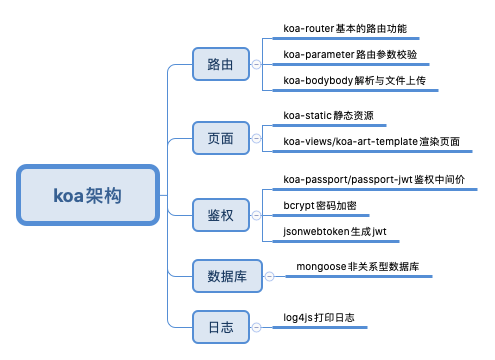
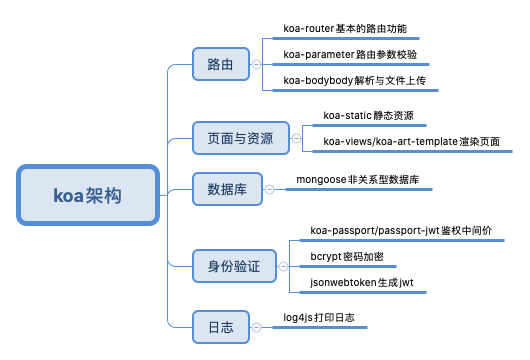
Step 5.日志

diff --git a/server/index.js b/server/index.js
@@ -24,6 +24,17 @@ render(app, {
 
 require('./dbconnect')
 
+const log4js = require("log4js");
+const logger = log4js.getLogger();
+logger.level = "info";
+
+app.use(async (ctx, next) => {
+  const start = new Date()
+  await next()
+  const ms = new Date() - start
+  logger.info(`${ctx.method} ${ctx.url} - ${ms}ms`)
+})
+
 const passport = require('koa-passport')
 require('./auth')(passport)
 app.use(passport.initialize())

diff --git a/README.md b/README.md
@@ -1,11 +1,13 @@
-# Koa-基础框架构建
+# Koa系列-基础功能实现
 > Koa 是一个新的 web 框架，由 Express 幕后的原班人马打造， 致力于成为 web 应用和 API 开发领域中的一个更小、更富有表现力、更健壮的基石。
 
 Koa与Express风格类似，不同在于默认异步解决方案和采用洋葱圈模型的中间件。
 
-Koa没有绑定任何中间件，简单的同时也缺失了很多Web程序基础的功能，现在我们使用Koa来实现一般Web程序中基础的功能。
+Koa没有绑定任何中间件，简单的同时也缺失了很多Web程序基础的功能，现在我们实现这些基础的功能：
+![koa架构.png](https://imgkr2.cn-bj.ufileos.com/2c1e897d-53f5-44e4-937e-6c254a354c57.png?UCloudPublicKey=TOKEN_8d8b72be-579a-4e83-bfd0-5f6ce1546f13&Signature=VI3rvEwVDBHgpsddDr6RiJtod%252Fk%253D&Expires=1601890371)
 
-## 实现路由功能
+
+## 路由
 
 实现路由功能我们使用到三个中间件，分别是`koa-router`、`koa-body`、`koa-parameter`：
 1. 其中`koa-router`来实现最基础的路由功能，将不同的url分发到相应的处理函数中；
@@ -63,7 +65,15 @@ api.post('/upload', ctx => {
 
 module.exports = api.routes()
 ```
-执行命令`node ./server/index.js`，运行程序，使用postman访问路由，访问`/api/test`时，如果没有参数name，状态码为422，提示Validation Failed，而我们带上参数name，返回结果为我们请求的参数；使用postman模拟文件上传，调用`/api/upload`接口，上传成功显示upload success，我们项目中的dist文件夹也多出了上传的文件（dist文件夹需要先创建，不然程序会报错）。
+执行命令`node ./server/index.js`，运行程序，使用postman访问路由，访问`/api/test`时，如果没有参数name，状态码为422，提示Validation Failed
+![20201001155137.jpg](https://imgkr2.cn-bj.ufileos.com/b647ac35-f6b1-41c4-a031-a9b0f44b5542.png?UCloudPublicKey=TOKEN_8d8b72be-579a-4e83-bfd0-5f6ce1546f13&Signature=dobzNRkQOIVMao6jW3%252FCbpjTTdE%253D&Expires=1601890190)
+
+而我们带上参数name，返回结果为我们请求的参数
+![20201001155221.jpg](https://imgkr2.cn-bj.ufileos.com/422c624a-0a93-4386-9b4c-ebbc6f03ab7c.png?UCloudPublicKey=TOKEN_8d8b72be-579a-4e83-bfd0-5f6ce1546f13&Signature=6B5TKYgFZq784KB7aW2YaS9cQr4%253D&Expires=1601890224)
+
+使用postman模拟文件上传，调用`/api/upload`接口，上传成功显示upload success，我们项目中的dist文件夹也多出了上传的文件（dist文件夹需要先创建，不然程序会报错）。
+![20201001155246.jpg](https://imgkr2.cn-bj.ufileos.com/b57992f0-1951-4595-a5f9-31c86d424099.png?UCloudPublicKey=TOKEN_8d8b72be-579a-4e83-bfd0-5f6ce1546f13&Signature=yHk0NYiYrQl8CUYSR0V67aky9Lg%253D&Expires=1601890122)
+
 
 为了方便我们调试程序，我们使用`nodemon`启动程序，首先运行`yarn run nodemon --dev`，然后在`package.json`中添加命令"dev": "nodemon ./server/index.js"，之后我们启动程序只需要运行`yarn run dev`即可，如果项目进行了修改，程序自动会自动重新运行。
 
@@ -192,7 +202,10 @@ api.post('/auth', passport.authenticate('jwt', { session: false }), async ctx =>
   ctx.body = 'auth'
 })
 ```
-结果提示Unauthorized，证明身份验证中间件已经生效。接下来我们来实现用户的注册和登录，完善身份验证的整个流程，注册和登录我们会用到`bcrypt`和`jsonwebtoken`，`bcrypt`用于密码的加密和比较，`jsonwebtoken`用于生成token；新增login和register接口：
+结果提示Unauthorized，证明身份验证中间件已经生效。
+![](https://imgkr2.cn-bj.ufileos.com/5511772f-9d76-422e-9979-d43ccaf17094.png?UCloudPublicKey=TOKEN_8d8b72be-579a-4e83-bfd0-5f6ce1546f13&Signature=u%252FK0FgCFaShQdvc4nufuP%252Bdgo9U%253D&Expires=1601890045)
+
+接下来我们来实现用户的注册和登录，完善身份验证的整个流程，注册和登录我们会用到`bcrypt`和`jsonwebtoken`，`bcrypt`用于密码的加密和比较，`jsonwebtoken`用于生成token；新增login和register接口：
 ```js
 api.post('/login', async ctx => {
   ctx.verifyParams({
@@ -231,5 +244,24 @@ api.post('/register', async ctx => {
 })
 ```
 调用这两个接口获取用户登录的token，再次访问auth接口，状态码200，正常返回访问信息。
+![20201004163733.jpg](https://imgkr2.cn-bj.ufileos.com/bb53dd0d-ccc2-4381-ac57-a8360cd08b74.png?UCloudPublicKey=TOKEN_8d8b72be-579a-4e83-bfd0-5f6ce1546f13&Signature=syuJEEgGqqElcQpOe9U3eKCWVdU%253D&Expires=1601890008)
 
 
+## 日志
+
+`log4js`是Node.js的日志工具，它提供丰富的日志功能，详细的功能的使用可以查看[log4js 完全讲解](https://juejin.im/post/6844903442054381582)和[官方文档](https://github.com/log4js-node/log4js-node)，我们现在只实现最简单的路由访问日志打印功能：
+```js
+const log4js = require("log4js");
+const logger = log4js.getLogger();
+logger.level = "info";
+
+app.use(async (ctx, next) => {
+  const start = new Date()
+  await next()
+  const ms = new Date() - start
+  logger.info(`${ctx.method} ${ctx.url} - ${ms}ms`)
+})
+```
+访问接口控制台会打印简单的访问日志
+![20201004171433.jpg](https://imgkr2.cn-bj.ufileos.com/93c36db1-f573-4a4d-9b64-1f81bdf7041f.png?UCloudPublicKey=TOKEN_8d8b72be-579a-4e83-bfd0-5f6ce1546f13&Signature=P%252Bw9wnpJ9qo%252FPt9LFhOk7QTDAb8%253D&Expires=1601889955)
+至此一个简单koa项目的基础功能我们就实现好了，具体代码实现可以查看[项目地址](https://github.com/x007xyz/koa-scaffold.git)。
